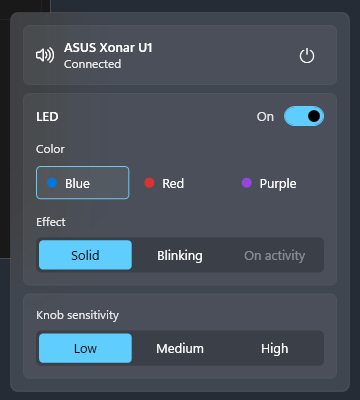
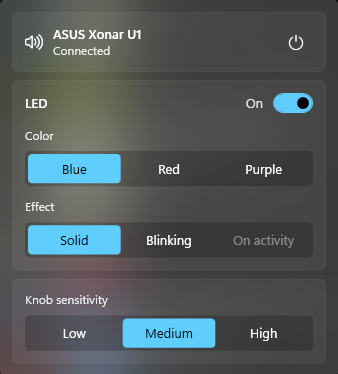
Make the colour selector match the other controls

diff --git a/Flyout.xaml b/Flyout.xaml
@@ -52,37 +52,6 @@
       </Setter>
     </Style>
 
-    <Style x:Key="LedTile" TargetType="RadioButton">
-      <Setter Property="Focusable" Value="False"/>
-      <Setter Property="Foreground" Value="{DynamicResource TextBrush}"/>
-      <Setter Property="Template">
-        <Setter.Value>
-          <ControlTemplate TargetType="RadioButton">
-            <Border x:Name="Box" Margin="2" Padding="10,7" CornerRadius="4"
-                    Background="Transparent" BorderThickness="1" BorderBrush="Transparent">
-              <StackPanel Orientation="Horizontal">
-                <Ellipse Width="10" Height="10" Margin="0,0,8,0" VerticalAlignment="Center"
-                         Fill="{Binding Tag, RelativeSource={RelativeSource TemplatedParent}}"/>
-                <ContentPresenter VerticalAlignment="Center"/>
-              </StackPanel>
-            </Border>
-            <ControlTemplate.Triggers>
-              <Trigger Property="IsMouseOver" Value="True">
-                <Setter TargetName="Box" Property="Background" Value="{DynamicResource HoverBrush}"/>
-              </Trigger>
-              <Trigger Property="IsChecked" Value="True">
-                <Setter TargetName="Box" Property="Background" Value="{DynamicResource HoverBrush}"/>
-                <Setter TargetName="Box" Property="BorderBrush" Value="{DynamicResource AccentBrush}"/>
-              </Trigger>
-              <Trigger Property="IsEnabled" Value="False">
-                <Setter Property="Opacity" Value="0.4"/>
-              </Trigger>
-            </ControlTemplate.Triggers>
-          </ControlTemplate>
-        </Setter.Value>
-      </Setter>
-    </Style>
-
     <Style x:Key="Segment" TargetType="RadioButton">
       <Setter Property="Focusable" Value="False"/>
       <Setter Property="Foreground" Value="{DynamicResource TextBrush}"/>
@@ -171,7 +140,9 @@
           </Grid>
           <StackPanel x:Name="LedOptions" Margin="0,14,0,0">
             <TextBlock Text="Color" Style="{StaticResource Heading}"/>
-            <UniformGrid x:Name="LedColors" Rows="1" Margin="-2,0,-2,12"/>
+            <Border Background="{DynamicResource WellBrush}" CornerRadius="5" Padding="2" Margin="0,0,0,12">
+              <UniformGrid x:Name="LedColors" Rows="1"/>
+            </Border>
             <TextBlock Text="Effect" Style="{StaticResource Heading}"/>
             <Border Background="{DynamicResource WellBrush}" CornerRadius="5" Padding="2">
               <UniformGrid x:Name="Effects" Rows="1"/>

diff --git a/Flyout.cs b/Flyout.cs
@@ -64,20 +64,19 @@ static partial class XonarU1
             foreach (var led in LedColors)
             {
                 string id = led.Id;
-                var tile = new RadioButton
+                var segment = new RadioButton
                 {
                     Content = led.Label,
                     GroupName = "Color",
-                    Style = (Style)panel.FindResource("LedTile"),
-                    Tag = new SolidColorBrush(Color.FromRgb(led.Color.R, led.Color.G, led.Color.B)),
+                    Style = (Style)panel.FindResource("Segment"),
                 };
-                tile.Click += (s, e) =>
+                segment.Click += (s, e) =>
                 {
                     config.Color = id;
                     if (id == "blue" && config.Effect == "activity") config.Effect = "solid";
                     LedChanged();
                 };
-                ledColors.Children.Add(tile);
+                ledColors.Children.Add(segment);
             }
 
             for (int i = 0; i < Effects.Length; i++)
